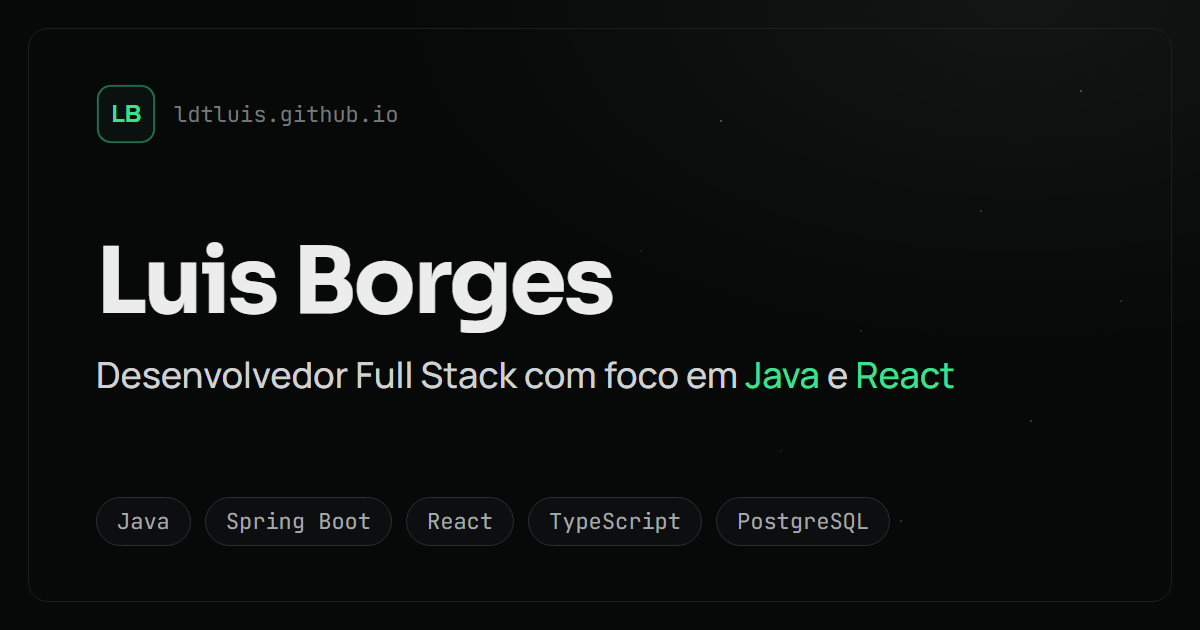
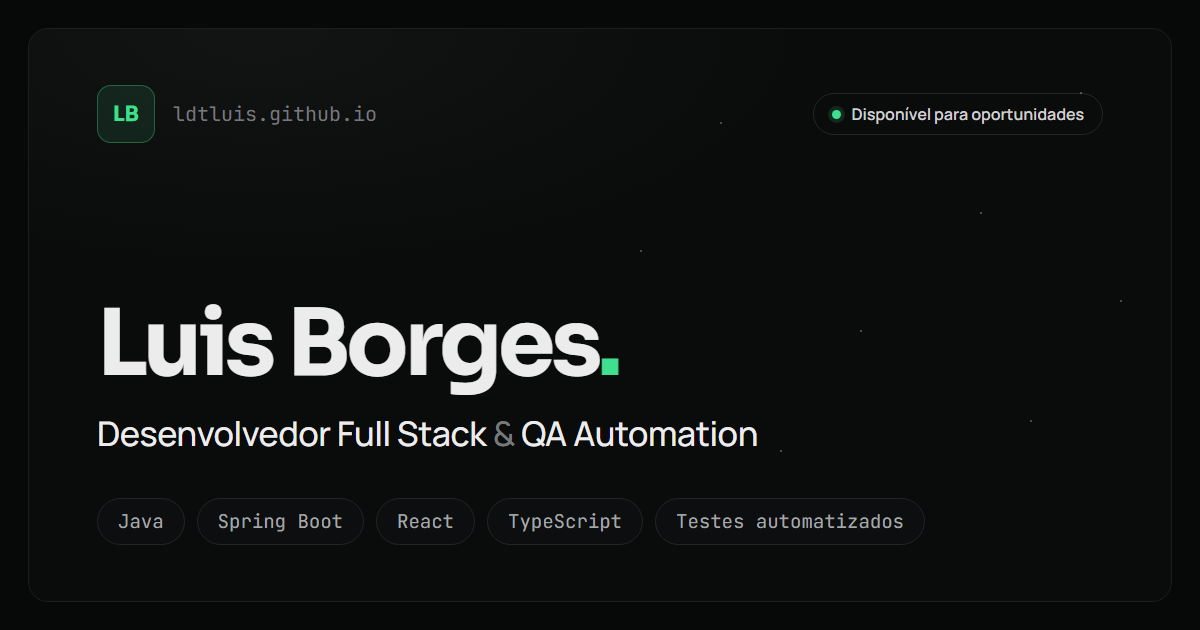
Prévia de link com o novo início (Full Stack & QA Automation)

diff --git a/index.html b/index.html
@@ -4,7 +4,7 @@
     <meta charset="UTF-8" />
     <meta name="viewport" content="width=device-width, initial-scale=1.0" />
     <meta name="theme-color" content="#070808" />
-    <meta name="description" content="Luis Borges — Desenvolvedor Full Stack com foco em Java e React." />
+    <meta name="description" content="Luis Borges — Desenvolvedor Full Stack &amp; QA Automation. Aplicações web de ponta a ponta com Java, Spring Boot, React e TypeScript, com testes automatizados em cada etapa." />
     <!-- Prévia de link (LinkedIn, WhatsApp etc.): os crawlers exigem URL absoluta. -->
     <link rel="canonical" href="https://ldtluis.github.io/" />
     <meta property="og:type" content="website" />
@@ -12,11 +12,11 @@
     <meta property="og:site_name" content="Luis Borges" />
     <meta property="og:url" content="https://ldtluis.github.io/" />
     <meta property="og:title" content="Luis Borges · Desenvolvedor Full Stack" />
-    <meta property="og:description" content="Luis Borges — Desenvolvedor Full Stack com foco em Java e React." />
-    <meta property="og:image" content="https://ldtluis.github.io/og-image.png" />
+    <meta property="og:description" content="Luis Borges — Desenvolvedor Full Stack &amp; QA Automation. Aplicações web de ponta a ponta com Java, Spring Boot, React e TypeScript, com testes automatizados em cada etapa." />
+    <meta property="og:image" content="https://ldtluis.github.io/og-image.png?v=2" />
     <meta property="og:image:width" content="1200" />
     <meta property="og:image:height" content="630" />
-    <meta property="og:image:alt" content="Luis Borges, Desenvolvedor Full Stack com foco em Java e React" />
+    <meta property="og:image:alt" content="Luis Borges, Desenvolvedor Full Stack &amp; QA Automation" />
     <meta name="twitter:card" content="summary_large_image" />
     <link rel="icon" type="image/svg+xml" href="/favicon.svg" />
     <title>Luis Borges · Desenvolvedor Full Stack</title>

diff --git a/estudo-de-caso/spa-casa-bali/index.html b/estudo-de-caso/spa-casa-bali/index.html
@@ -13,10 +13,10 @@
     <meta property="og:url" content="https://ldtluis.github.io/estudo-de-caso/spa-casa-bali/" />
     <meta property="og:title" content="Spa Casa Bali · Estudo de caso · Luis Borges" />
     <meta property="og:description" content="Estudo de caso do Spa Casa Bali: agendamento online, pagamentos e vale-presente para uma rede de spas, por Luis Borges." />
-    <meta property="og:image" content="https://ldtluis.github.io/og-image.png" />
+    <meta property="og:image" content="https://ldtluis.github.io/og-image.png?v=2" />
     <meta property="og:image:width" content="1200" />
     <meta property="og:image:height" content="630" />
-    <meta property="og:image:alt" content="Luis Borges, Desenvolvedor Full Stack com foco em Java e React" />
+    <meta property="og:image:alt" content="Luis Borges, Desenvolvedor Full Stack &amp; QA Automation" />
     <meta name="twitter:card" content="summary_large_image" />
     <link rel="icon" type="image/svg+xml" href="/favicon.svg" />
     <title>Spa Casa Bali · Estudo de caso · Luis Borges</title>
